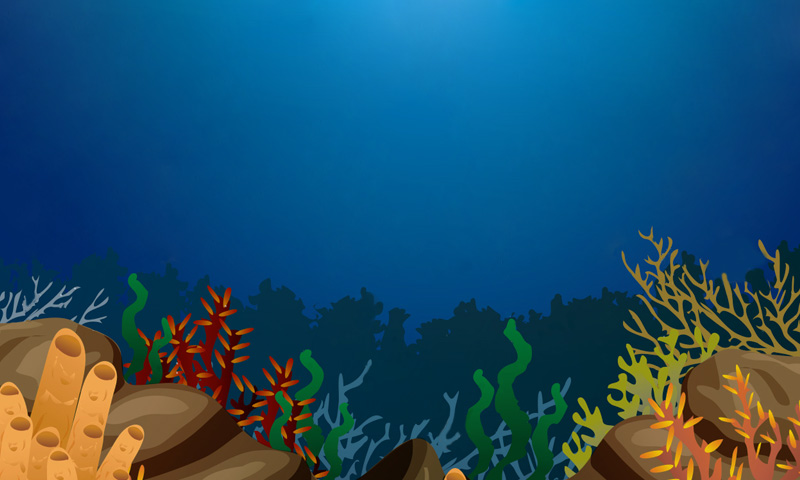
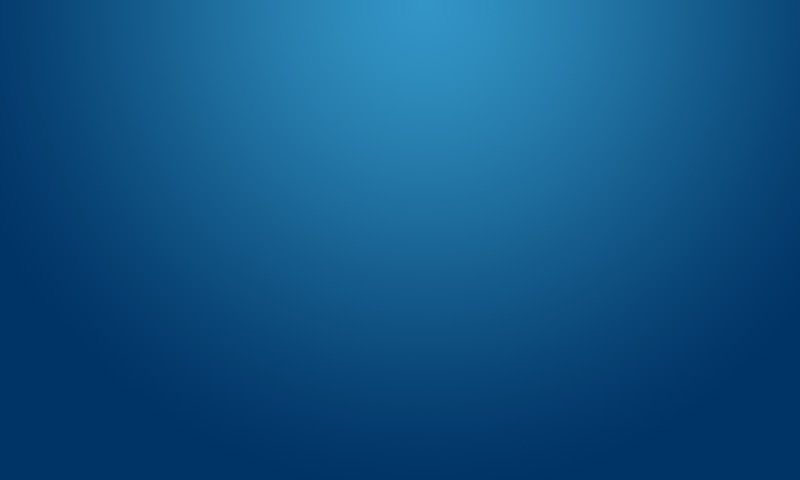
Добавлен динамический игровой фон

diff --git a/game.js b/game.js
@@ -12,21 +12,39 @@ var paused;
 var size_arr = [0, 64, 77, 90, 104, 115];
 
 var img1, img2, img3, img4, img5, imgPlankton;
-
 var imgHero1, imgHero2, imgHero3, imgHero4, imgHero5;
 
+//=======================background imgs========================
+var back_1, back_2;
+var backImg_1;
+function FarBack(x)
+{
+    this.x = x;
+}
+
+var back_3, back_4;
+var backImg_2;
+function NearBack(x)
+{
+    this.x = x;
+}
+//==============================================================
+
 //======================== constants ===========================
-var c_min_speed  = 3;
+var c_min_speed  = 4;
 var c_max_speed  = 8;
 var c_min_size   = 1;
 var c_max_size   = 5;
 var c_hero_accel = 0.03;
 
+var c_far_back_speed = 1.8;
+var c_near_back_speed = 3;
+
 //количество игровых очков для роста героя
-var c_give_level_2 = 45;
-var c_give_level_3 = 90;
-var c_give_level_4 = 150;
-var c_give_level_5 = 300;
+var c_give_level_2 = 90;
+var c_give_level_3 = 150;
+var c_give_level_4 = 250;
+var c_give_level_5 = 400;
 //==============================================================
 
 // -------------------------------------------------------------
@@ -231,6 +249,34 @@ function movePlankton()  //передвигаем планктон на встр
     }
 }
 
+function drawBack()
+{
+    //Far background
+    ctx.drawImage(backImg_1,back_1.x,0);
+    ctx.drawImage(backImg_1,back_2.x,0);
+
+    back_1.x -= (c_far_back_speed + ptrHero.accel/10);
+    back_2.x -= (c_far_back_speed + ptrHero.accel/10);
+
+    if( back_1.x <= -800 )
+        back_1.x = back_2.x + 800;
+    if( back_2.x <= -800 )
+        back_2.x = back_1.x + 800;
+
+    //Near background
+    ctx.drawImage(backImg_2,back_3.x,0);
+    ctx.drawImage(backImg_2,back_4.x,0);
+
+    back_3.x -= (c_near_back_speed + ptrHero.accel/10);
+    back_4.x -= (c_near_back_speed + ptrHero.accel/10);
+
+    if( back_3.x <= -1600 )
+        back_3.x = back_4.x + 1600;
+    if( back_4.x <= -1600 )
+        back_4.x = back_3.x + 1600;
+}
+
+
 function drawScene() { // главная функция отрисовки
 
     if( paused )
@@ -241,6 +287,7 @@ function drawScene() { // главная функция отрисовки
         clear(); // очистить canvas
 
         animateSprite();
+        drawBack();
 
         if( touched )   //герой либо тонет либо всплывает
         {
@@ -253,7 +300,7 @@ function drawScene() { // главная функция отрисовки
             if( ptrHero.y > 450 - size_arr[ptrHero.size] ) ptrHero.y = 450 - size_arr[ptrHero.size];
         }
 
-        ptrHero.accel += 0.25; //герой движется с ускорением
+        //ptrHero.accel += 0.1; //герой движется с ускорением
 
         moveEnemies();
         //movePlankton();
@@ -261,6 +308,7 @@ function drawScene() { // главная функция отрисовки
         var ind = FindCollisions();
         if( ind >= 0 )  //если есть пересечения героя с др. объектами
         {
+            ptrHero.accel = c_hero_accel;
             if (ind >4)
             {
                 ArrPlankton[ind-5].isActive = false;
@@ -384,6 +432,19 @@ function Init()
     imgPlankton = new Image();
 
     imgPlankton.src = 'imgs/plankton.png';
+
+    backImg_1 = new Image();
+    backImg_1.src = 'imgs/back_1.png';
+
+    back_1 = new FarBack(0);
+    back_2 = new FarBack(800);
+
+    backImg_2 = new Image();
+    backImg_2.src = 'imgs/back_2.png';
+
+    back_3 = new FarBack(0);
+    back_4 = new FarBack(1600);
+
 }
 
 function HideButtons()
@@ -446,8 +507,6 @@ $(function(){
         var canvasOffset = $(canvas).offset();
         var mouseX = Math.floor(e.pageX - canvasOffset.left);
         oldMouseY = Math.floor(e.pageY - canvasOffset.top);
-
-        ptrHero.accel = c_hero_accel;
         touched = true;
 
     });
